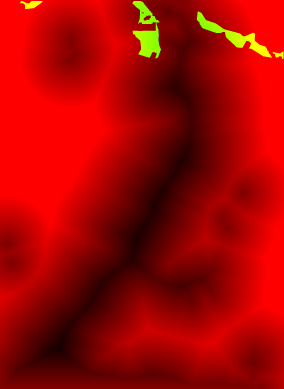
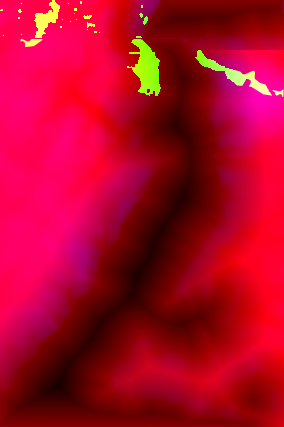
Vilsund: merged zoomed map, real elevation, extended north; Albin Ballad 'LazyBones'

diff --git a/index.html b/index.html
@@ -259,21 +259,22 @@ async function buildVilsund() {
   const cv2 = document.createElement('canvas'); cv2.width = MW; cv2.height = MH;
   const cx = cv2.getContext('2d'); cx.drawImage(img, 0, 0);
   const px = cx.getImageData(0, 0, MW, MH).data;
-  const SD = new Float32Array(MW * MH), TW = new Float32Array(MW * MH);
-  for (let i = 0; i < MW * MH; i++) { SD[i] = (px[i * 4] - 128) * 3; TW[i] = px[i * 4 + 1] / 255; }
+  const SD = new Float32Array(MW * MH), TW = new Float32Array(MW * MH), EL = new Float32Array(MW * MH);
+  for (let i = 0; i < MW * MH; i++) { SD[i] = (px[i * 4] - 128) * 3; TW[i] = px[i * 4 + 1] / 255; EL[i] = px[i * 4 + 2] / 3; }
   const bil = (A, x, z) => {
     let u = clamp((x - OX) / CELL - 0.5, 0, MW - 1.001), v = clamp((z - OZ) / CELL - 0.5, 0, MH - 1.001);
     const i = Math.floor(u), j = Math.floor(v), fu = u - i, fv = v - j, k = j * MW + i;
     return (A[k] * (1 - fu) + A[k + 1] * fu) * (1 - fv) + (A[k + MW] * (1 - fu) + A[k + MW + 1] * fu) * fv;
   };
   const sdAt = (x, z) => bil(SD, x, z), townAt = (x, z) => bil(TW, x, z);
-  const fromPx = (x, y) => ({ x: (x - MW * 2) * 2, z: (y - MH * 2) * 2 });
+  const fromPx = (x, y) => ({ x: (x - MW * 2) * 2, z: (y + 152 - MH * 2) * 2 }); // +152: map extended 38 rows north
   const noise = (x, z) => Math.sin(x * 0.011 + 1.3) * Math.cos(z * 0.009 - 0.7) * 0.6 + Math.sin(x * 0.031 + z * 0.023) * 0.3 + Math.sin(x * 0.07 - z * 0.05) * 0.1;
+  // real elevation (metres, AWS Terrain Tiles) in the B channel, scaled to the compressed map
+  const VS = 0.7;
   const heightAt = (x, z) => {
     const s = sdAt(x, z);
     if (s <= 0) return Math.max(-9, 0.5 + s * 0.05);
-    const t = townAt(x, z);
-    return 0.5 + 2.5 * smooth(0, 40, s) + (16 + noise(x, z) * 10) * smooth(40, 700, s) * (1 - 0.6 * t) + noise(x * 2, z * 2) * 2 * smooth(30, 150, s);
+    return 0.5 + 2.5 * smooth(0, 40, s) + bil(EL, x, z) * VS * smooth(0, 60, s) + noise(x * 2, z * 2) * 1.2 * smooth(30, 150, s);
   };
   const group = new THREE.Group();
 
@@ -475,15 +476,86 @@ async function selectMap(id) {
 
 // ---------- boat ----------
 const boat = { x: 0, z: 0, heading: 0, speed: 0, obj: new THREE.Group() };
+// Albin Ballad-style 30ft cruiser: red topsides, white boot stripe, long low coachroof, masthead sloop
+const ZS = -3.6, ZB = 4.8;
+const hullW = t => t < 0.42 ? 1.02 + 0.43 * Math.sin(t / 0.42 * Math.PI / 2) : 1.45 * Math.pow(Math.max(0, 1 - ((t - 0.42) / 0.58) ** 2), 0.62);
+const sheerY = t => 1.25 + 0.42 * t * t + 0.12 * (1 - t) ** 2;
+const keelY = t => -0.35 + 1.25 * Math.max(0, (t - 0.55) / 0.45) ** 2 + 0.55 * Math.max(0, (0.18 - t) / 0.18) ** 2;
 {
-  const s = new THREE.Shape();
-  s.moveTo(0, 4.6); s.quadraticCurveTo(1.7, 2, 1.5, -2.6); s.lineTo(1.2, -3.5); s.lineTo(-1.2, -3.5); s.lineTo(-1.5, -2.6); s.quadraticCurveTo(-1.7, 2, 0, 4.6);
-  const hullGeo = new THREE.ExtrudeGeometry(s, { depth: 1.5, bevelEnabled: true, bevelThickness: 0.25, bevelSize: 0.2, bevelSegments: 2, curveSegments: 10 });
-  hullGeo.rotateX(Math.PI / 2); hullGeo.translate(0, 1.0, 0);
-  const hull = new THREE.Mesh(hullGeo, new THREE.MeshStandardMaterial({ color: 0xf4f1ea, roughness: 0.5 })); boat.obj.add(hull);
-  const deckGeo = new THREE.ShapeGeometry(s, 10); deckGeo.rotateX(Math.PI / 2); deckGeo.scale(0.92, 1, 0.94);
-  const deck = new THREE.Mesh(deckGeo, new THREE.MeshStandardMaterial({ color: 0x9a6b3f, side: THREE.DoubleSide })); deck.position.y = 1.27; boat.obj.add(deck);
-  const mast = new THREE.Mesh(new THREE.CylinderGeometry(0.1, 0.14, 11, 8), new THREE.MeshStandardMaterial({ color: 0xcccccc, metalness: 0.6, roughness: 0.3 })); mast.position.set(0, 6.7, 1.0); boat.obj.add(mast);
+  const NS = 28, NM = 14, pos = [], colA = [], idx = [];
+  const red = new THREE.Color(0xc0281e), white = new THREE.Color(0xf4f4f0), bottom = new THREE.Color(0x1f2a44);
+  for (let i = 0; i <= NS; i++) {
+    const t = i / NS, z = ZS + t * (ZB - ZS), w = hullW(t), sh = sheerY(t), kb = keelY(t);
+    for (let j = 0; j <= NM; j++) {
+      const u = -1 + 2 * j / NM, y = kb + (sh - kb) * Math.pow(Math.abs(u), 2.2);
+      pos.push(w * Math.sign(u) * Math.pow(Math.abs(u), 0.7), y, z);
+      const c = y < 0.12 ? bottom : y < 0.3 ? white : red; colA.push(c.r, c.g, c.b);
+    }
+  }
+  for (let i = 0; i < NS; i++) for (let j = 0; j < NM; j++) { const a = i * (NM + 1) + j, b = a + 1, c = a + NM + 1, d = c + 1; idx.push(a, b, c, b, d, c); }
+  // flat transom
+  const base = pos.length / 3; pos.push(0, sheerY(0) - 0.15, ZS); colA.push(red.r, red.g, red.b);
+  for (let j = 0; j < NM; j++) idx.push(base, j + 1, j);
+  const hg = new THREE.BufferGeometry(); hg.setAttribute('position', new THREE.Float32BufferAttribute(pos, 3)); hg.setAttribute('color', new THREE.Float32BufferAttribute(colA, 3));
+  hg.setIndex(idx); hg.computeVertexNormals();
+  boat.obj.add(new THREE.Mesh(hg, new THREE.MeshStandardMaterial({ vertexColors: true, roughness: 0.45, side: THREE.DoubleSide })));
+  // deck
+  const dp = [], di = [];
+  for (let i = 0; i <= NS; i++) { const t = i / NS, z = ZS + t * (ZB - ZS), w = hullW(t), y = sheerY(t); dp.push(-w, y, z, 0, y + 0.06, z, w, y, z); }
+  for (let i = 0; i < NS; i++) { const a = i * 3; di.push(a, a + 3, a + 1, a + 1, a + 3, a + 4, a + 1, a + 4, a + 2, a + 2, a + 4, a + 5); }
+  const dg = new THREE.BufferGeometry(); dg.setAttribute('position', new THREE.Float32BufferAttribute(dp, 3)); dg.setIndex(di); dg.computeVertexNormals();
+  const whiteMat = new THREE.MeshStandardMaterial({ color: 0xeeeeea, roughness: 0.6, side: THREE.DoubleSide });
+  boat.obj.add(new THREE.Mesh(dg, whiteMat));
+  // coachroof with window band
+  const prof = new THREE.Shape(); prof.moveTo(-0.7, 0); prof.lineTo(-0.7, 0.55); prof.lineTo(1.9, 0.55); prof.lineTo(2.6, 0.05); prof.lineTo(2.6, 0);
+  const cr = new THREE.ExtrudeGeometry(prof, { depth: 1.7, bevelEnabled: true, bevelThickness: 0.06, bevelSize: 0.06, bevelSegments: 1 });
+  cr.rotateY(-Math.PI / 2); cr.translate(0.85, 1.3, 0);
+  boat.obj.add(new THREE.Mesh(cr, whiteMat));
+  const winMat = new THREE.MeshStandardMaterial({ color: 0x1b1f26, roughness: 0.2, metalness: 0.4 });
+  for (const sx of [-1, 1]) { const win = new THREE.Mesh(new THREE.BoxGeometry(0.04, 0.16, 1.9), winMat); win.position.set(sx * 0.93, 1.6, 0.55); boat.obj.add(win); }
+  // cockpit: teak sole + coamings
+  const teak = new THREE.MeshStandardMaterial({ color: 0x9a6b3f, roughness: 0.9 });
+  const sole = new THREE.Mesh(new THREE.BoxGeometry(1.5, 0.05, 2.4), teak); sole.position.set(0, sheerY(0.15) + 0.04, -2.0); boat.obj.add(sole);
+  for (const sx of [-1, 1]) { const co = new THREE.Mesh(new THREE.BoxGeometry(0.08, 0.28, 2.6), whiteMat); co.position.set(sx * 0.8, sheerY(0.15) + 0.16, -1.95); boat.obj.add(co); }
+  const tiller = new THREE.Mesh(new THREE.CylinderGeometry(0.04, 0.05, 1.6, 6), teak); tiller.rotation.x = Math.PI / 2 - 0.25; tiller.position.set(0, sheerY(0) + 0.35, -2.85); boat.obj.add(tiller);
+  // pulpit + rails
+  const steel = new THREE.MeshStandardMaterial({ color: 0xcccccc, metalness: 0.7, roughness: 0.3 });
+  const rail = (a, b) => { const v = new THREE.Vector3().subVectors(b, a), m = new THREE.Mesh(new THREE.CylinderGeometry(0.025, 0.025, v.length(), 4), steel); m.position.copy(a).addScaledVector(v, 0.5); m.quaternion.setFromUnitVectors(new THREE.Vector3(0, 1, 0), v.normalize()); boat.obj.add(m); };
+  for (const sx of [-1, 1]) {
+    const pts = [0.08, 0.3, 0.55, 0.78, 0.92].map(t => new THREE.Vector3(sx * hullW(t) * 0.92, sheerY(t), ZS + t * (ZB - ZS)));
+    pts.forEach(p => rail(p, p.clone().setY(p.y + 0.6)));
+    for (let k = 0; k < pts.length - 1; k++) rail(pts[k].clone().setY(pts[k].y + 0.6), pts[k + 1].clone().setY(pts[k + 1].y + 0.6));
+  }
+  // transom name
+  const nc = document.createElement('canvas'); nc.width = 512; nc.height = 128;
+  const nx = nc.getContext('2d'); nx.fillStyle = '#fff'; nx.font = 'italic bold 78px Georgia, serif'; nx.textAlign = 'center'; nx.textBaseline = 'middle'; nx.fillText('LazyBones', 256, 68);
+  const nameTex = new THREE.CanvasTexture(nc); nameTex.anisotropy = 4;
+  const name = new THREE.Mesh(new THREE.PlaneGeometry(1.8, 0.45), new THREE.MeshBasicMaterial({ map: nameTex, transparent: true, depthWrite: false }));
+  name.rotation.y = Math.PI; name.position.set(0, 0.95, ZS - 0.02); boat.obj.add(name);
+  // mast + forestay
+  const mast = new THREE.Mesh(new THREE.CylinderGeometry(0.09, 0.12, 10.5, 8), steel); mast.position.set(0, 7.1, 1.0); boat.obj.add(mast);
+  rail(new THREE.Vector3(0, 12.2, 1.0), new THREE.Vector3(0, sheerY(1) - 0.05, ZB - 0.1));
+  rail(new THREE.Vector3(0, 12.2, 1.0), new THREE.Vector3(0, sheerY(0) + 0.1, ZS + 0.15));
+}
+// jib (masthead foresail, tacked at the bow)
+const JR = 6, JC = 5, jibPos = new Float32Array((JR + 1) * (JC + 1) * 3), jibGeo = new THREE.BufferGeometry();
+jibGeo.setAttribute('position', new THREE.BufferAttribute(jibPos, 3));
+{ const idx = []; for (let j = 0; j < JR; j++) for (let i = 0; i < JC; i++) { const a = j * (JC + 1) + i, b = a + 1, c = a + JC + 1, d = c + 1; idx.push(a, c, b, b, c, d); } jibGeo.setIndex(idx); }
+const jib = new THREE.Mesh(jibGeo, new THREE.MeshStandardMaterial({ color: 0xfffaf0, side: THREE.DoubleSide, roughness: 0.8 })); jib.frustumCulled = false; boat.obj.add(jib);
+function updateJib(side, sheet, belly, t) {
+  const T = [0, 1.95, 4.55], H = [0, 11.3, 1.3], a = Math.max(0.12, sheet * 0.85), L = 3.1;
+  const C = [-side * Math.sin(a) * L, 2.0, T[2] - Math.cos(a) * L];
+  const nxv = -Math.cos(a) * side, nzv = -Math.sin(a);
+  let k = 0;
+  for (let j = 0; j <= JR; j++) {
+    const v = j / JR;
+    for (let i = 0; i <= JC; i++) {
+      const u = i / JC, b = belly * Math.sin(Math.PI * u) * (1 - v) + (Math.abs(belly) < 0.15 ? Math.sin(t * 20 + u * 5) * 0.2 * u * (1 - v) : 0);
+      for (let c = 0; c < 3; c++) { const l = T[c] + (H[c] - T[c]) * v, e = C[c] + (H[c] - C[c]) * v; jibPos[k + c] = l + (e - l) * u; }
+      jibPos[k] += nxv * b; jibPos[k + 2] += nzv * b * 0.3; k += 3;
+    }
+  }
+  jibGeo.attributes.position.needsUpdate = true; jibGeo.computeVertexNormals();
 }
 const rig = new THREE.Group(); rig.position.set(0, 0, 1.0); boat.obj.add(rig);
 const boom = new THREE.Mesh(new THREE.CylinderGeometry(0.08, 0.08, 3.8, 6), new THREE.MeshStandardMaterial({ color: 0xbbbbbb })); boom.rotation.x = Math.PI / 2; boom.position.set(0, 2.2, -1.9); rig.add(boom);
@@ -676,6 +748,7 @@ function update(dt) {
   boat.obj.rotation.set(-pitchW, boat.heading, heel + rollW * 0.7 - rudder * 0.05 * boat.speed / 10);
   rig.rotation.y = Math.sign(rel || 1) * sheet;
   updateSail(-Math.sign(rel || 1) * 0.9 * eff, T);
+  updateJib(Math.sign(rel || 1), sheet, 0.6 * eff, T);
   flag.rotation.y = wf + Math.PI - boat.heading - rig.rotation.y * 0;
 
   // ---- wake ----

diff --git a/sw.js b/sw.js
@@ -1,4 +1,4 @@
-const CACHE = 'vildsund-baadelaug-v1';
+const CACHE = 'vildsund-baadelaug-v3';
 const CORE = ['./', './index.html', './vilsund.png', './manifest.webmanifest', './icon-192.png', './icon-512.png',
   'https://unpkg.com/three@0.160.0/build/three.module.js'];
 

diff --git a/README.md b/README.md
@@ -3,3 +3,5 @@
 Mobilvenlig sejlsimulator i three.js. Vip telefonen for at styre, vælg mellem kortene **Øerne** og **Vilsund**, og oplev et døgn på 2 minutter.
 
 Spil: https://jbacim.github.io/sailor/
+
+Højdedata for Vilsund: [AWS Terrain Tiles](https://registry.opendata.aws/terrain-tiles/) (Mapzen). Georeferering ud fra vejnettet i © [OpenStreetMap](https://www.openstreetmap.org/copyright)-bidragydere.
